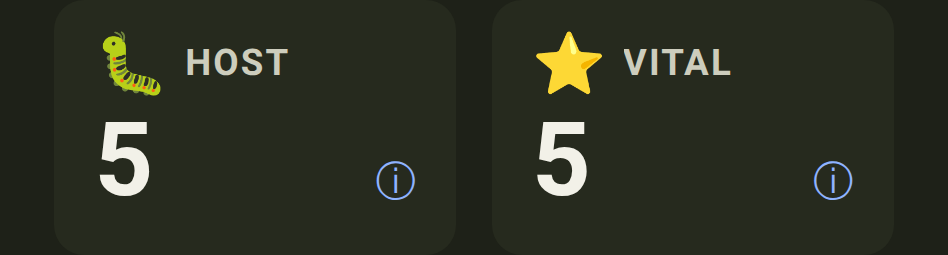
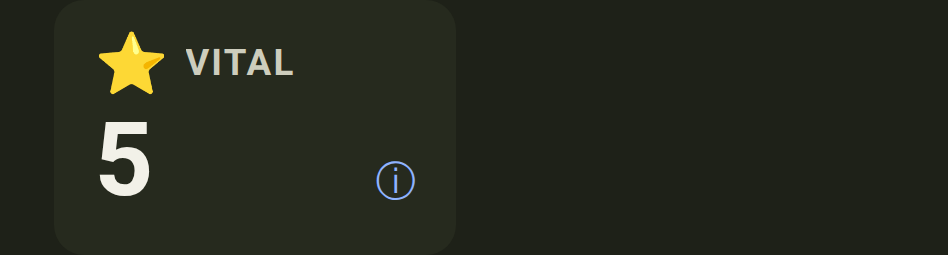
One tile where Host and Vital count the same plants
Across the catalog they don't: 132 host ties against 31 make-or-break
ones, only 29 of them the same tie — most caterpillar hosts are one of
several a butterfly could use, and two vital ties aren't hosts at all
(a black grouse's cover, a nutcracker's seed). But on 21 of the 53
animals that have either, every host *is* the animal's only option, and
there "Host 5" beside "Vital 5" is the page saying one thing twice.

Compared as sets rather than counts: equal totals over different plants
are two facts and keep two tiles. The monarch now shows Vital 5 alone;
grass skippers still show Host 19 and Vital 1.

Claude-Session: https://claude.ai/code/session_011kBroCVpHqAdAR7riv9XDP

diff --git a/app/src/steps/wildlife.ts b/app/src/steps/wildlife.ts
@@ -510,12 +510,21 @@ export async function renderWildlife(main: HTMLElement, param?: string): Promise
     items: supports.filter((s) => s.region.meta.id === r.meta.id),
   })).filter((g) => g.items.length);
 
-  const hosts = supports.filter((s) => s.link.support === "host").length;
+  const hostTies = supports.filter((s) => s.link.support === "host");
   // Where it raises young or sits out the winter, as opposed to where it eats:
   // a bird's nest site and a caterpillar's food plant are the same promise from
   // the plant's side, so they earn a tile of their own rather than a footnote.
   const shelter = supports.filter((s) => s.link.support === "shelter").length;
-  const soleCount = supports.filter((s) => relianceOf(s.link) === "sole").length;
+  const soleTies = supports.filter((s) => relianceOf(s.link) === "sole");
+  // Two tiles, or one? Across the catalog these count different plants — most
+  // caterpillar hosts are one of several a butterfly could use, and a couple of
+  // make-or-break ties aren't hosts at all (a black grouse's cover, a
+  // nutcracker's seed). But for an animal like the monarch every host *is* its
+  // only option, and then "Host 5" beside "Vital 5" is the page saying one
+  // thing twice. Compared as sets, not counts: equal totals over different
+  // plants are two real facts.
+  const soleKeys = new Set(soleTies.map(tieKey));
+  const hostsAllVital = hostTies.length > 0 && hostTies.every((s) => soleKeys.has(tieKey(s)));
 
   // The chosen photograph, if there is one. Keyed to the first region this
   // animal is documented in, which is the one whose plants the page leads with
@@ -580,7 +589,13 @@ export async function renderWildlife(main: HTMLElement, param?: string): Promise
             // eye. Every one of those facts is a chip on the card that carries
             // it, so on a page with three plants the tiles are the reader
             // counting to three for us.
-            supports.length > LONG_LIST ? reachTiles(w, names.title, { hosts, shelter, soleCount }) : null,
+            supports.length > LONG_LIST
+              ? reachTiles(w, names.title, {
+                  hosts: hostsAllVital ? 0 : hostTies.length,
+                  shelter,
+                  soleCount: soleTies.length,
+                })
+              : null,
           ]),
         ]),
       ]),
@@ -682,6 +697,12 @@ function reachTiles(
   // (Host, Shelter); the make-or-break tile reads "Vital" rather than the
   // chip's "Essential", which clips in a tile 119 px wide at the 360 px floor.
   return statTiles(tiles, t("wlStat.glance", { animal: commonName(w) }), { figures: true });
+}
+
+/** One tie, identified by the plant *and* the region it's listed in — the same
+ *  plant is a separate row on each region's list, and the tiles count rows. */
+function tieKey(s: PlantSupport): string {
+  return `${s.region.meta.id}/${s.plant.id}`;
 }
 
 // Strongest dependence first: sole > narrow > broad, then host over other
